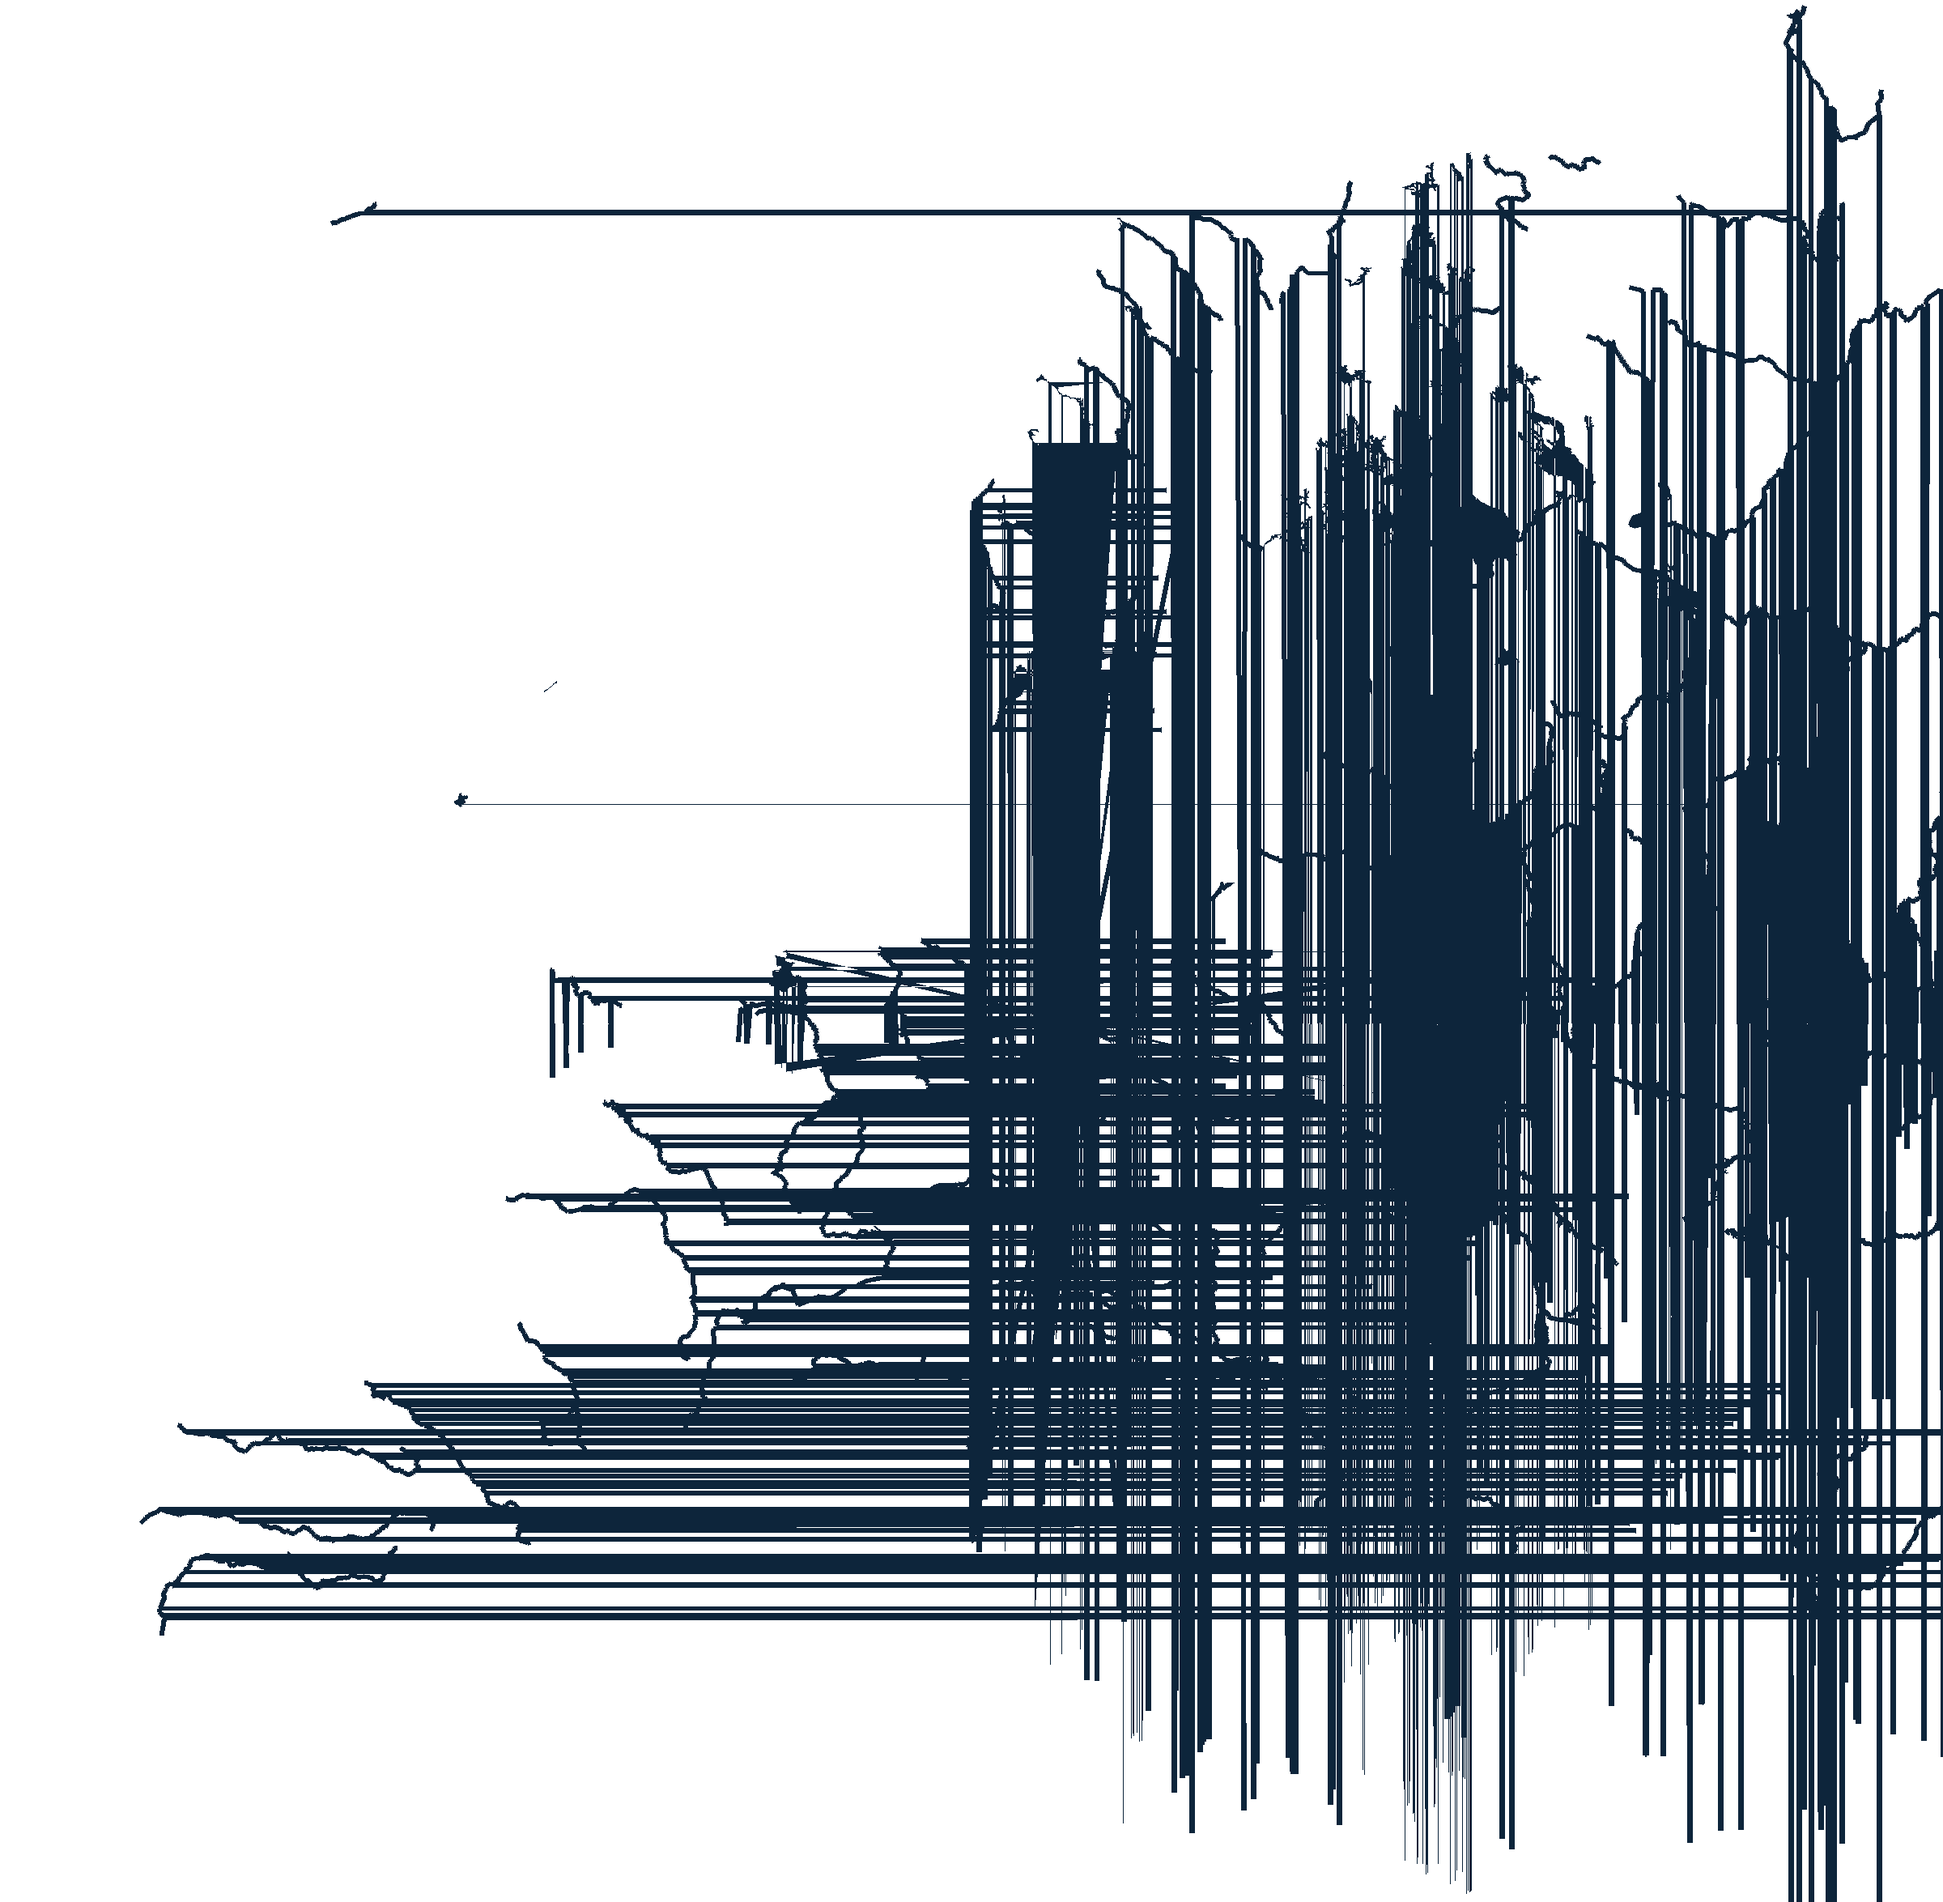
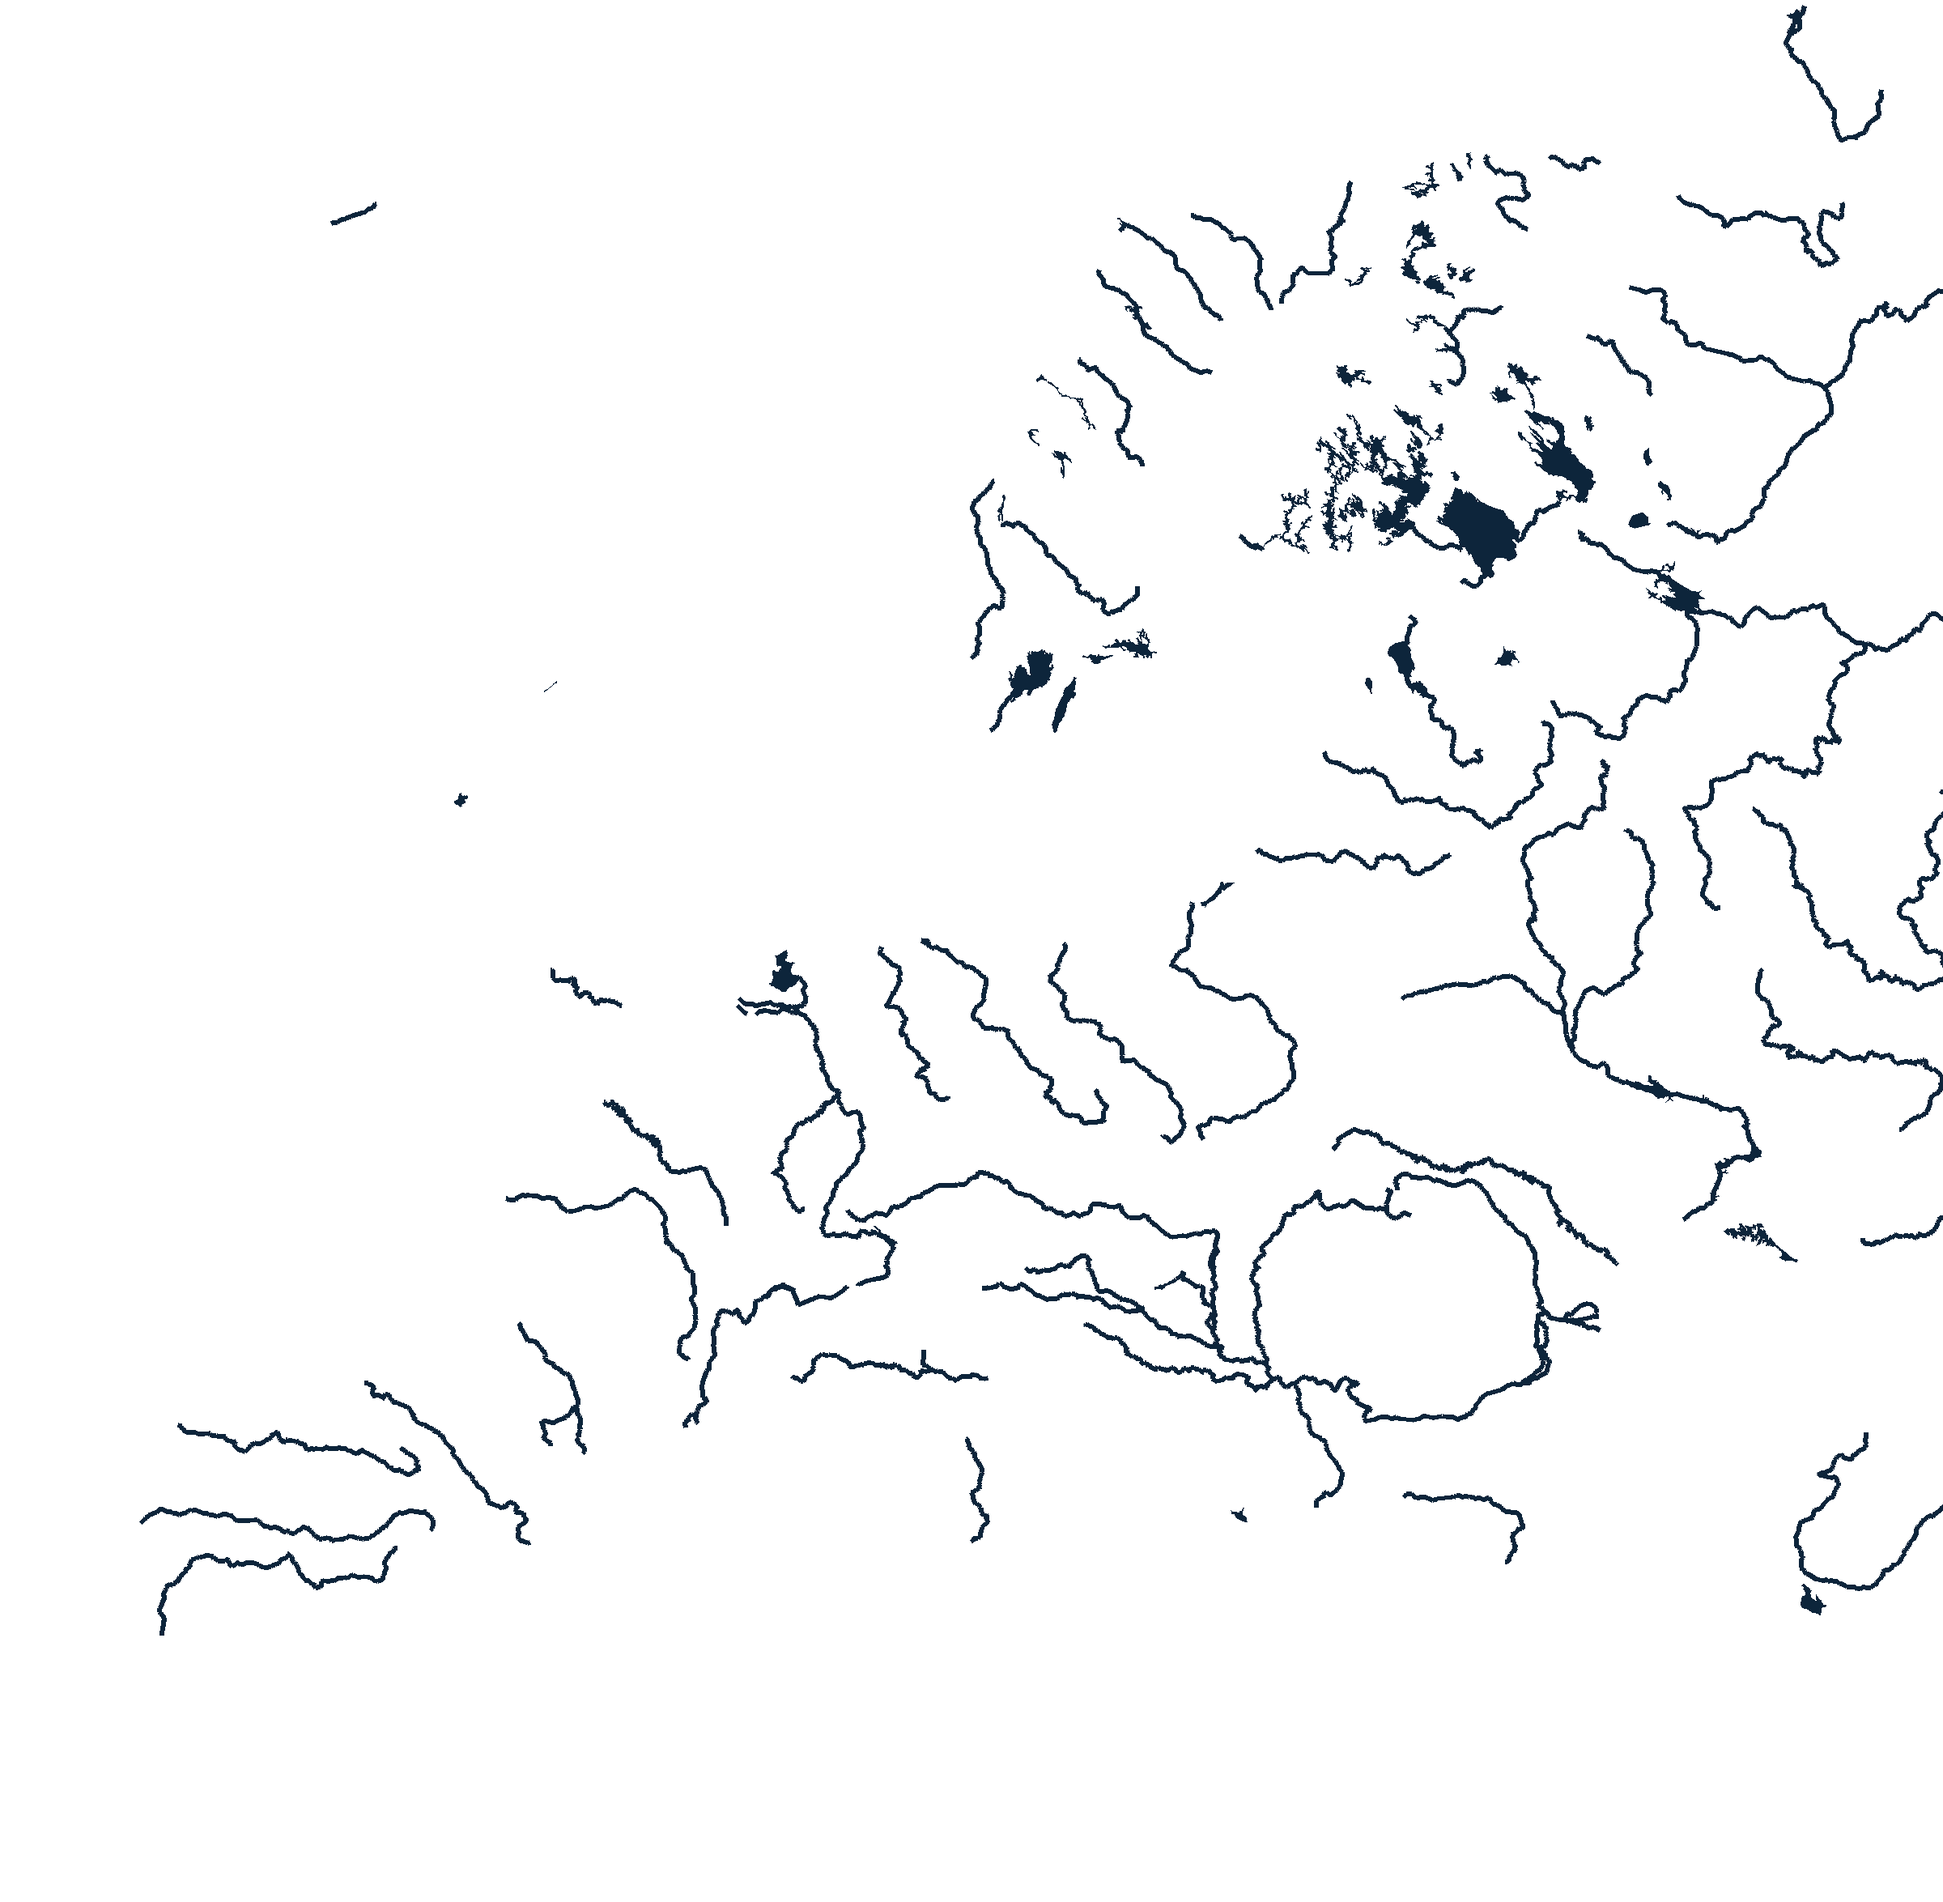
fix: fix regex negative integer parsing in 10-water-raster.py to eliminate all horizontal/vertical line stripe artifacts

diff --git a/scripts/10-water-raster.py b/scripts/10-water-raster.py
@@ -36,7 +36,7 @@ def render_water(box, out_w, out_h):
         for lake_svg in raw_map['lakes']:
             sub_paths = [p.strip() for p in lake_svg.split('M') if p.strip()]
             for sub in sub_paths:
-                coords = re.findall(r'[-+]?\d*\.\d+|\d+', sub)
+                coords = re.findall(r'[-+]?\d+(?:\.\d+)?', sub)
                 pts = [map_to_px(float(coords[i]), float(coords[i+1])) for i in range(0, len(coords)-1, 2)]
                 if len(pts) >= 3:
                     draw.polygon(pts, fill=255)
@@ -47,7 +47,7 @@ def render_water(box, out_w, out_h):
         for river_svg in raw_map['rivers']:
             sub_paths = [p.strip() for p in river_svg.split('M') if p.strip()]
             for sub in sub_paths:
-                coords = re.findall(r'[-+]?\d*\.\d+|\d+', sub)
+                coords = re.findall(r'[-+]?\d+(?:\.\d+)?', sub)
                 pts = [map_to_px(float(coords[i]), float(coords[i+1])) for i in range(0, len(coords)-1, 2)]
                 if len(pts) >= 2:
                     draw.line(pts, fill=255, width=stroke_w)
